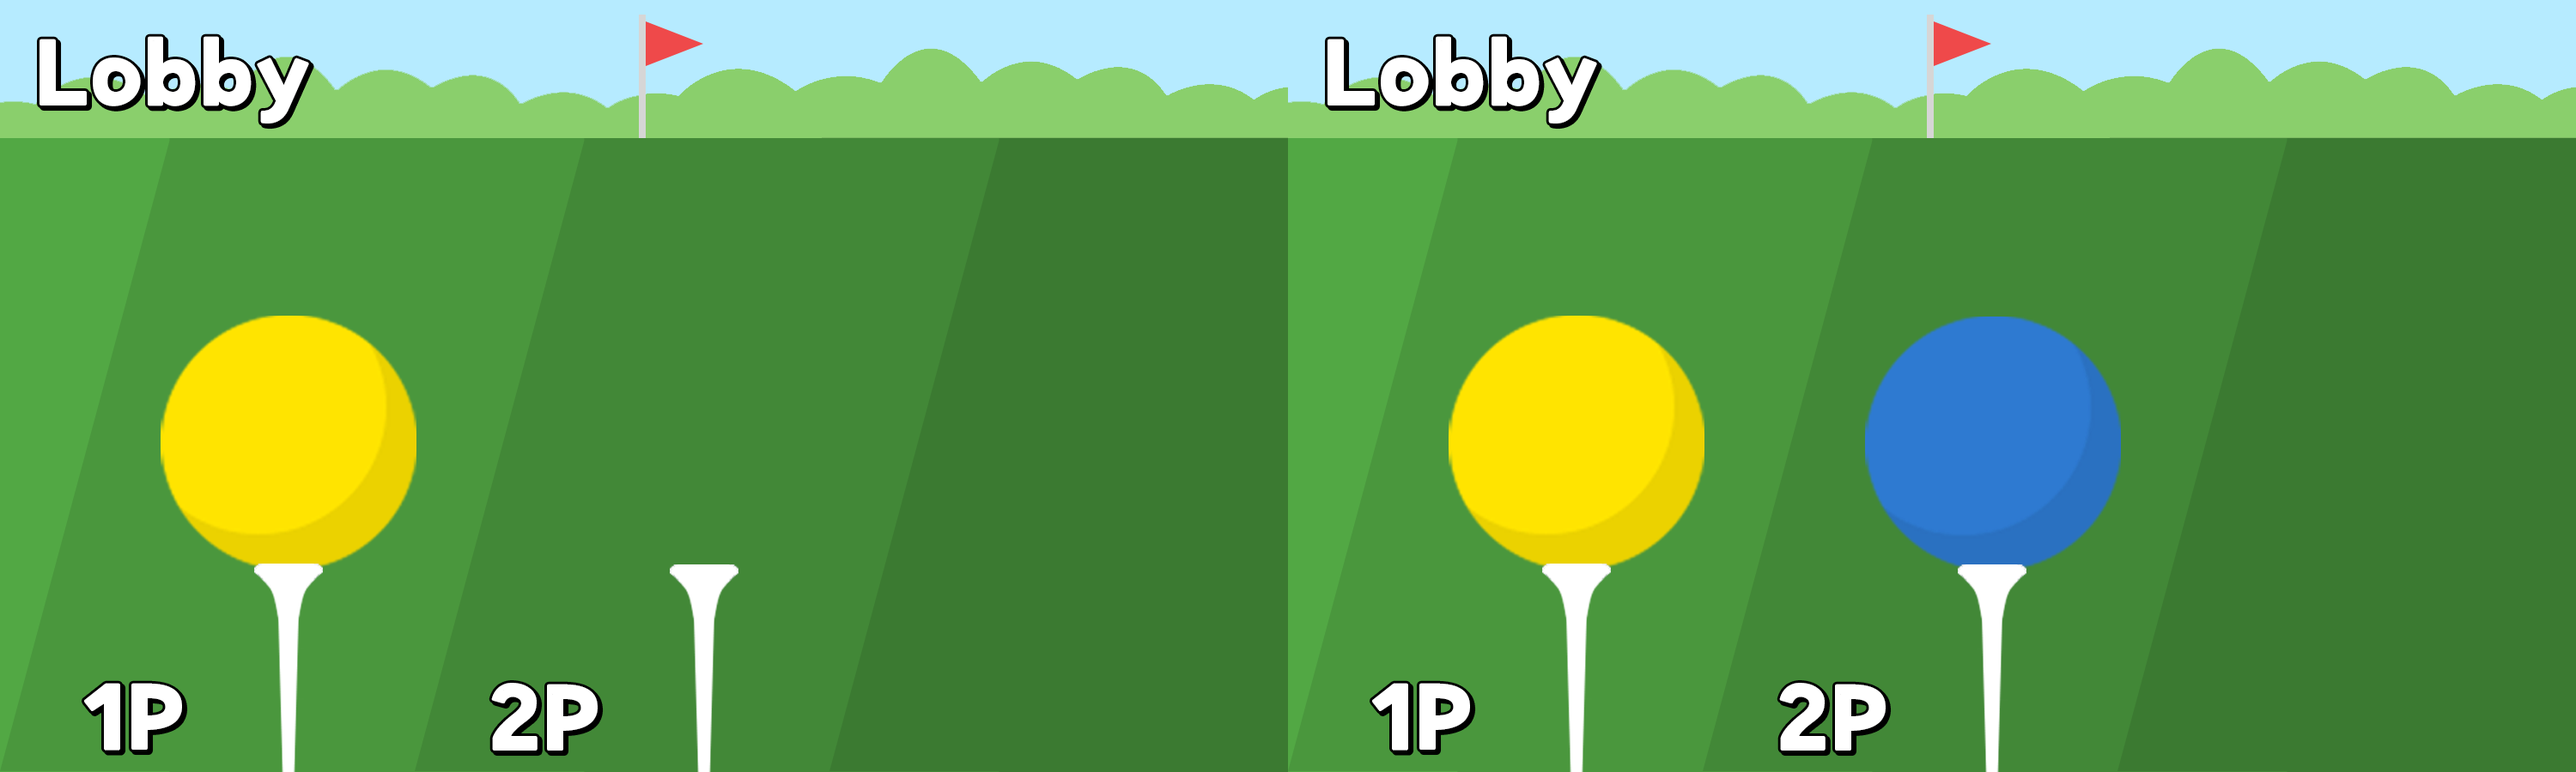
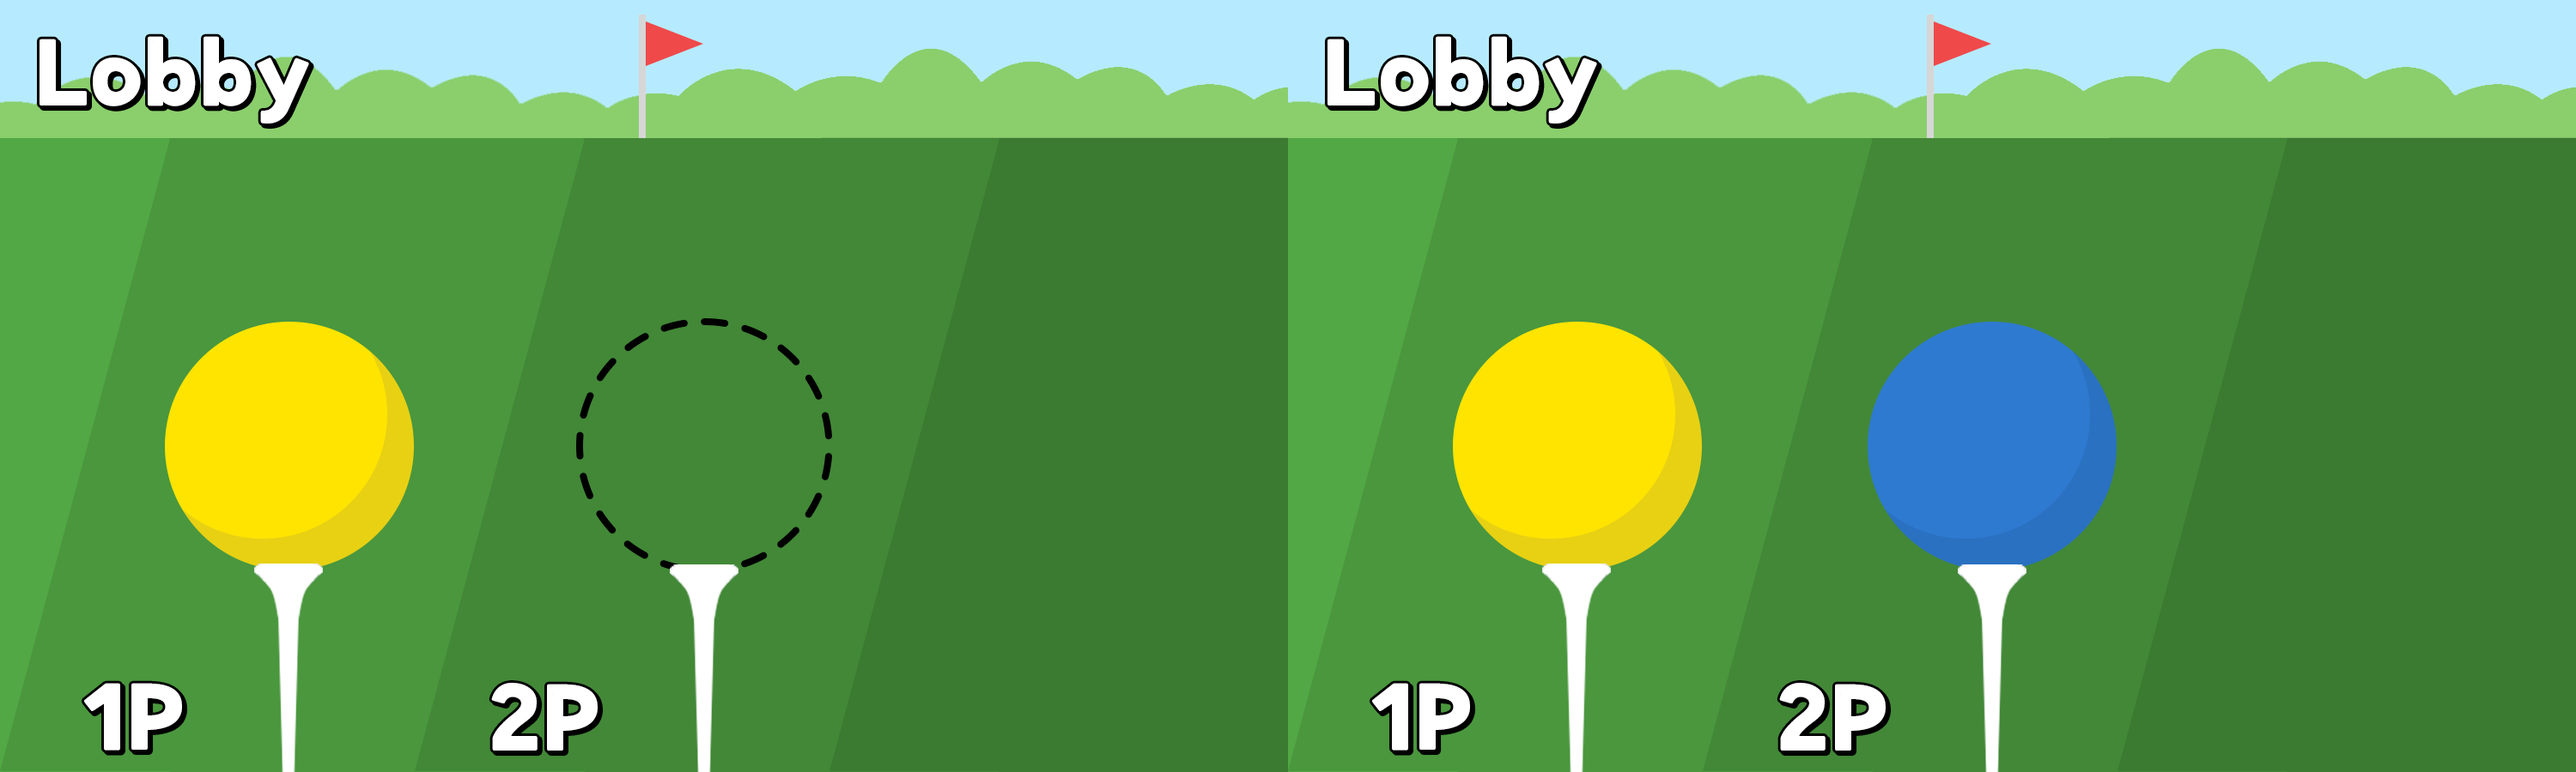
기존 waiting 로비화면으로 수정, 상대방 공 색깔 다르게 출력

diff --git a/TemClient/souce.cpp b/TemClient/souce.cpp
@@ -157,7 +157,7 @@ void LoadResources()
 		imgBlockList.Load(TEXT("바운스볼 PNG/맵툴_블럭 선택 목록.png"));
 		imgOutline.Load(TEXT("바운스볼 PNG/맵툴_블럭 선택 테두리.png"));
 
-		imgWaiting.Load(TEXT("바운스볼 PNG/waiting.png"));
+		imgWaiting.Load(TEXT("바운스볼 PNG/로비화면.png"));
 	}
 	// 사운드 로드
 	{
@@ -416,7 +416,7 @@ void Render()
 			imgEraseButton.Draw(mdc, 1315, 307, 78, 78, 0, 0, 78, 78);
 	}
 	else if (game.GamePlay == StageWaiting) {
-		imgWaiting.Draw(mdc, 0, 0, game.window.right, game.window.bottom, 0, 0, imgWaiting.GetWidth(), imgWaiting.GetHeight());
+		imgWaiting.Draw(mdc, 0, 0, game.window.right, game.window.bottom, 0, 0, game.window.right, game.window.bottom); // 기본 시작화면
 	}
 
 	// 게임 플레이 화면
@@ -438,7 +438,7 @@ void Render()
 			imgBall.Draw(mdc, game.ball.x - rd, game.ball.y - rd, rd * 2, rd * 2, 0, 0, 25, 25);
 		}
 		if (!game.otherPlayer.isDead && game.otherPlayer.playerID != 7) {
-			imgBall.Draw(mdc, game.otherPlayer.x - rd, game.otherPlayer.y - rd, rd * 2, rd * 2, 0, 0, 25, 25);
+			imgBall.Draw(mdc, game.otherPlayer.x - rd, game.otherPlayer.y - rd, rd * 2, rd * 2, 100, 0, 25, 25);
 		}
 
 		// 파티클 출력
